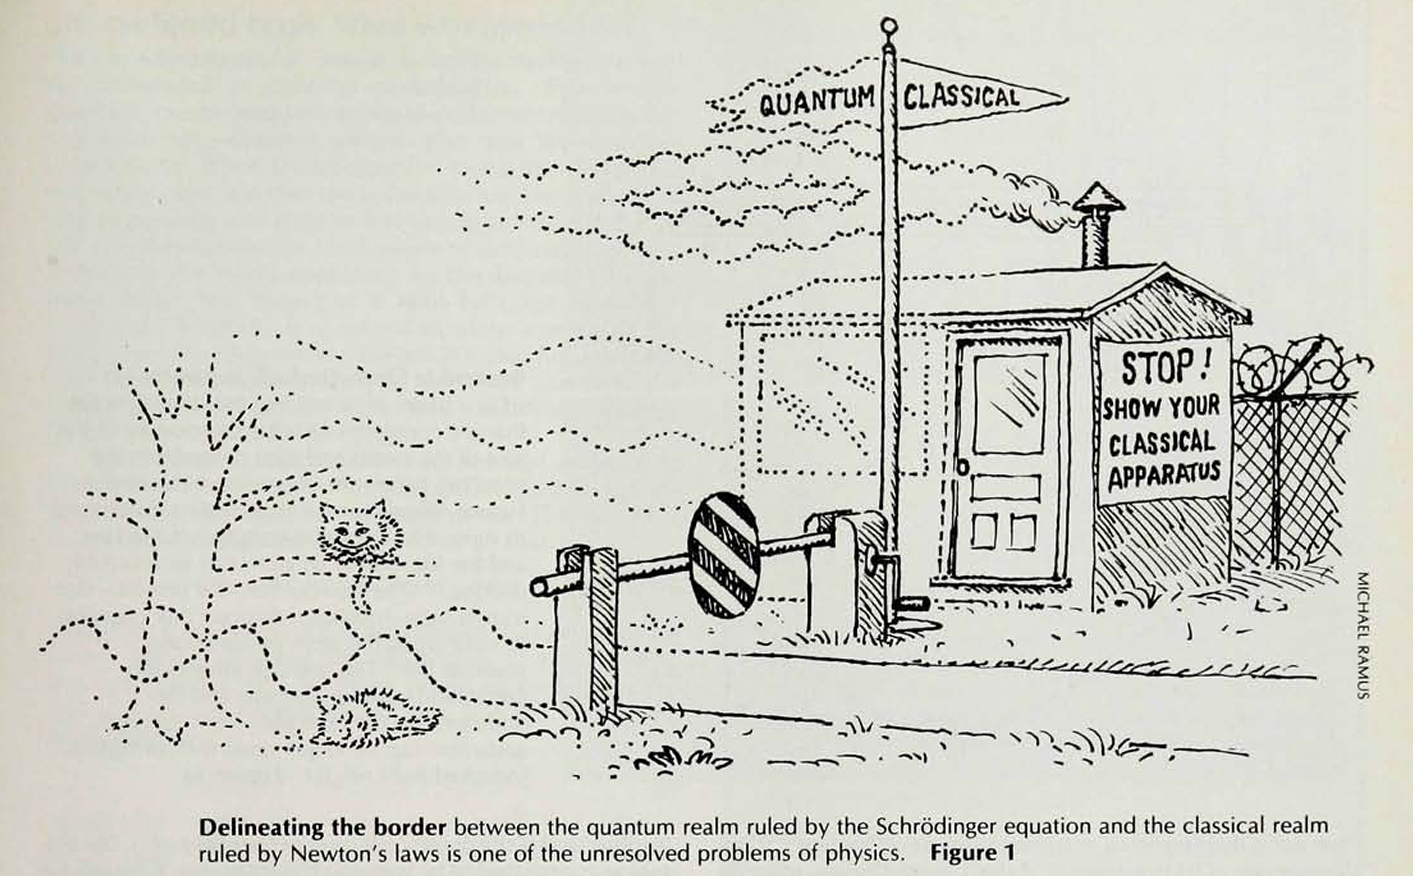
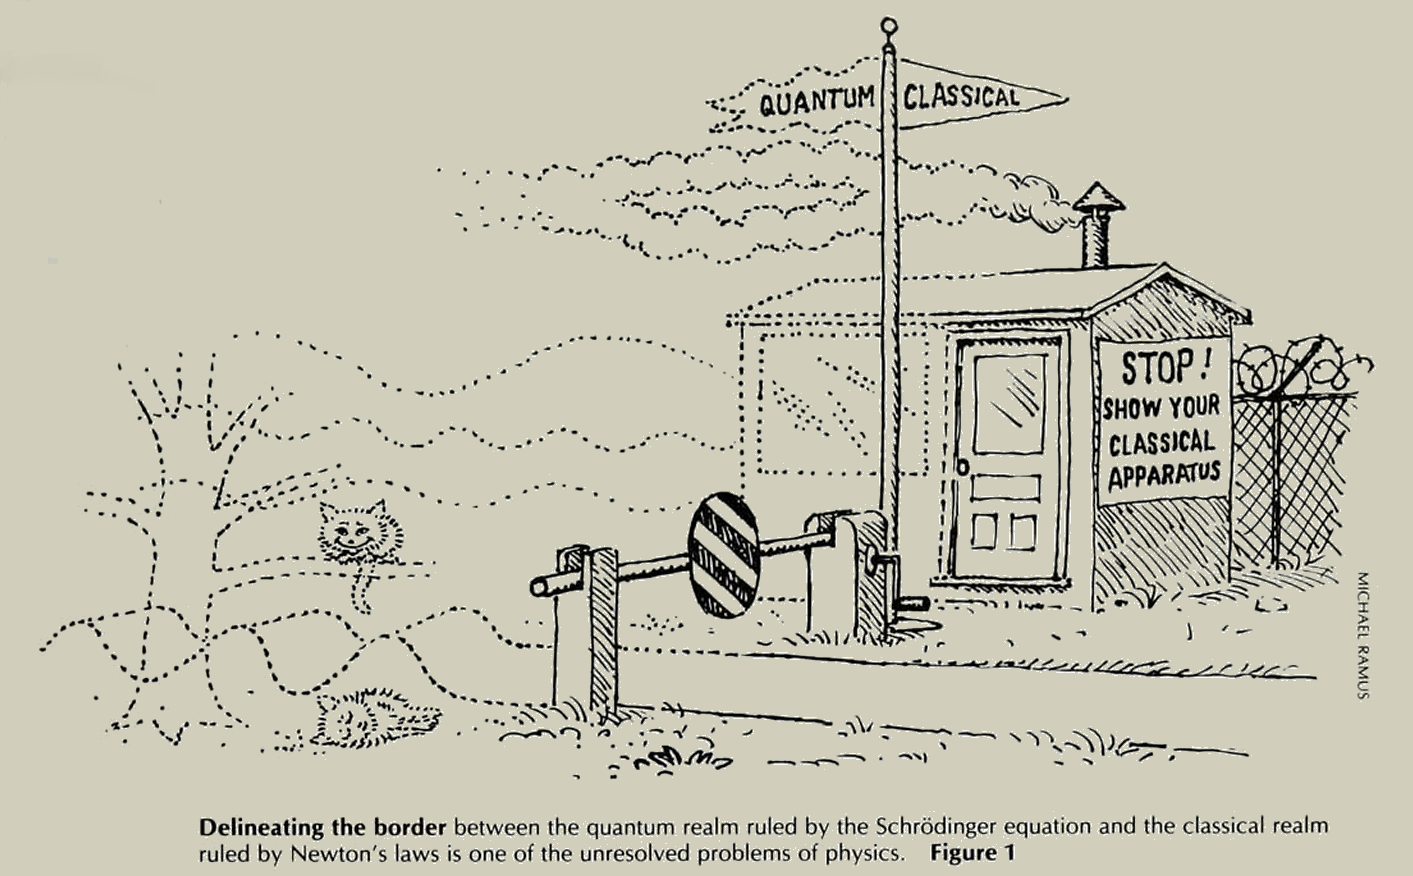
Making the background image homogeneous

diff --git a/assets/css/index.css b/assets/css/index.css
@@ -10,7 +10,7 @@ main {
 .background-image {
     background:
         url('../images/background.png') no-repeat center center,
-        linear-gradient(to left, #e3e0d1 50%, #d1cebb 50%); /* Gradient layer */
+        #d1cebb;
     background-size: contain;
     display: flex;
     flex-direction: column;
